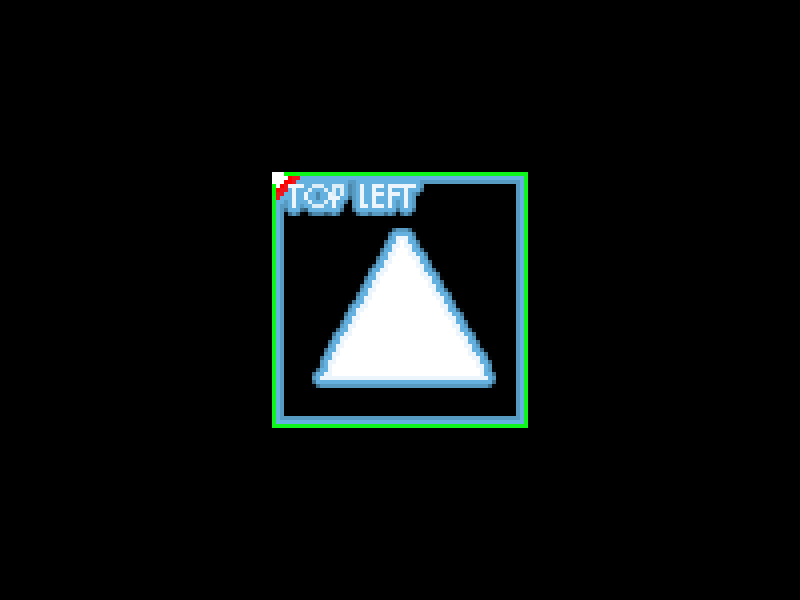
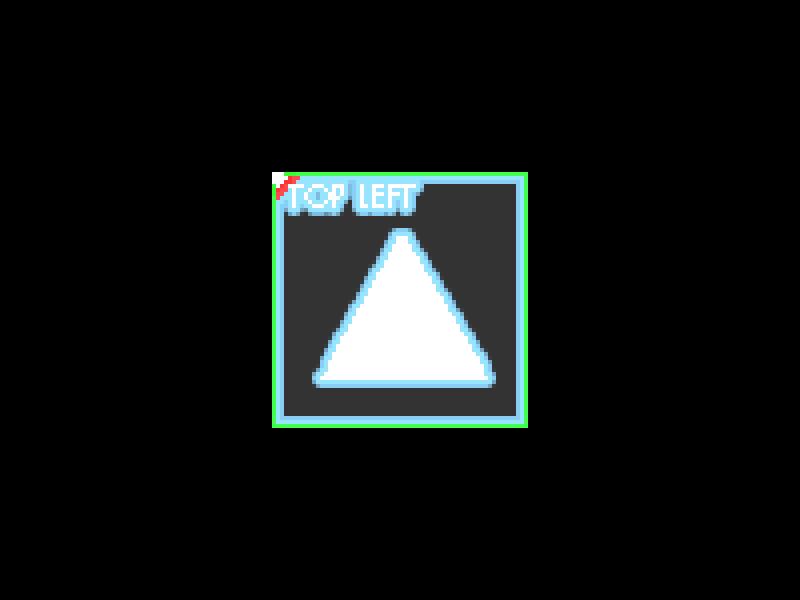
* Differentiate some darkened and lightened tile effect

Changed region(s): [[0.3125, 0.27, 0.6875, 0.72]]

diff --git a/documentation/index.htm b/documentation/index.htm
@@ -238,6 +238,9 @@ table td
   <td class="method">set_light_angle_of_incidence(1)</td>
 </tr>
 <tr>
+  <td class="method">set_light_spread(1)</td>
+</tr>
+<tr>
   <td class="method">set_primary_texture(1)</td>
 </tr>
 <tr>

diff --git a/tests/Tileo/MeshWithNormalsTest.cpp b/tests/Tileo/MeshWithNormalsTest.cpp
@@ -9,6 +9,7 @@
 #include <Tileo/MeshWithNormals.hpp>
 
 #include <AllegroFlare/BitmapBin.hpp>
+#include <AllegroFlare/Random.hpp>
 #include <Tileo/Shaders/AllegroDefault.hpp>
 
 class Tileo_MeshWithNormalsRenderingFixtureTest : public ::testing::Test
@@ -140,18 +141,25 @@ TEST_F(Tileo_MeshWithNormalsRenderingFixtureTest, INTERACTIVE__vertexes_will_ren
    Tileo::Shaders::MeshWithNormals shader;
    shader.initialize();
 
+   std::vector<std::pair<int, int>> tile_and_normal_tile_pairs = { { 2, 2 }, { 18, 3 }, { 19, 0 } };
+
    int num_tiles_in_atlas = atlas.get_tile_index_size();
    int num_tiles_in_normal_atlas = normal_atlas.get_tile_index_size();
+   AllegroFlare::Random random(time(0));
    for (int y=0; y<mesh_with_normals.get_num_rows(); y++)
       for (int x=0; x<mesh_with_normals.get_num_columns(); x++)
       {
-         int tile_num_to_set = (x + y * mesh_with_normals.get_num_columns());
-         tile_num_to_set = tile_num_to_set % num_tiles_in_atlas;
-         mesh_with_normals.set_tile(x, y, tile_num_to_set);
+         //int pair_to_pick = (x + y * mesh_with_normals.get_num_columns()) % tile_and_normal_tile_pairs.size();
+         int pair_to_pick = random.get_random_int(0, (tile_and_normal_tile_pairs.size()-1));
+         //int tile_num_to_set = (x + y * mesh_with_normals.get_num_columns());
+         //tile_num_to_set = tile_num_to_set % num_tiles_in_atlas;
+         int tile_id = tile_and_normal_tile_pairs[pair_to_pick].first;
+         mesh_with_normals.set_tile(x, y, tile_id); //tile_num_to_set);
 
-         int normal_tile_num_to_set = tile_num_to_set % (num_tiles_in_normal_atlas / 3);
+         //int normal_tile_num_to_set = tile_num_to_set % (num_tiles_in_normal_atlas / 3);
          //normal_tile_num_to_set = (-tile_num_to_set + 256*256) % num_tiles_in_atlas;
-         mesh_with_normals.set_normal_tile(x, y, normal_tile_num_to_set);
+         int normal_tile_id = tile_and_normal_tile_pairs[pair_to_pick].second;
+         mesh_with_normals.set_normal_tile(x, y, normal_tile_id); //normal_tile_num_to_set);
       }
 
    std::vector<TILEO_TILE_VERTEX> &vertexes = mesh_with_normals.get_vertexes_ref();
@@ -159,7 +167,7 @@ TEST_F(Tileo_MeshWithNormalsRenderingFixtureTest, INTERACTIVE__vertexes_will_ren
    ALLEGRO_BITMAP* texture = atlas.get_bitmap();
    //ALLEGRO_BITMAP* texture = nullptr;
 
-   int passes = 60*2;
+   int passes = 60*15;
    for (int i=0; i<passes; i++)
    {
       al_clear_to_color(ALLEGRO_COLOR{0, 0, 0, 0});
@@ -169,6 +177,7 @@ TEST_F(Tileo_MeshWithNormalsRenderingFixtureTest, INTERACTIVE__vertexes_will_ren
       shader.set_primary_texture(atlas.get_bitmap());
       shader.set_normal_texture(normal_atlas.get_bitmap());
       shader.set_light_angle_of_incidence((float)(i)/passes);
+      shader.set_light_spread(1);
 
       al_draw_prim(&vertexes[0], vertex_declaration, irrelevant_texture, 0, vertexes.size(), ALLEGRO_PRIM_TRIANGLE_LIST);
 

diff --git a/src/Tileo/Shaders/MeshWithNormals.cpp b/src/Tileo/Shaders/MeshWithNormals.cpp
@@ -53,6 +53,12 @@ void MeshWithNormals::set_light_angle_of_incidence(float light_angle_of_incidenc
    return;
 }
 
+void MeshWithNormals::set_light_spread(int light_spread)
+{
+   Shader::set_int("light_spread", light_spread);
+   return;
+}
+
 void MeshWithNormals::set_primary_texture(ALLEGRO_BITMAP* primary_texture_bitmap)
 {
    Shader::set_sampler("primary_texture", primary_texture_bitmap, 1);
@@ -121,6 +127,7 @@ std::string MeshWithNormals::obtain_fragment_source()
 
      // lights logic:
      uniform float light_angle_of_incidence;
+     uniform int light_spread;
 
      // normals logic:
      uniform sampler2D primary_texture; // analagous to al_tex
@@ -182,11 +189,15 @@ std::string MeshWithNormals::obtain_fragment_source()
 
      void alter_by_normal_texture_color(inout vec4 color, in vec4 normal_color)
      {
+        //int spread = 1;
         int light_direction_y = int(floor(light_angle_of_incidence * 8.0 + 0.5));
         int angle_to_light_y = int(floor(normal_color.g * 8.0 + 0.5));
-        bool light_modified = (light_direction_y == angle_to_light_y);
+        bool in_shadow =
+          (abs(float(light_direction_y) - float(angle_to_light_y)) > float(4));
+        bool in_light =
+          (abs(float(light_direction_y) - float(angle_to_light_y)) < max(1.0, float(light_spread * 2)));
 
-        if (!light_modified)
+        if (in_shadow)
         {
            // darken
            color.r = color.r *= 0.8; //normal_color.r; //inverse_tint_intensity + tint.r * tint_intensity) * color.a;
@@ -194,15 +205,16 @@ std::string MeshWithNormals::obtain_fragment_source()
            color.b = color.b *= 0.8; //normal_color.b; //inverse_tint_intensity + tint.b * tint_intensity) * color.a;
            color.a = color.a *= 0.8;
         }
-        else
+
+        if (in_light)
         {
-           return;
+           //return;
 
            // brighten
-           color.r = color.r += 0.5; //normal_color.r; //inverse_tint_intensity + tint.r * tint_intensity) * color.a;
-           color.g = color.g += 0.5; //normal_color.g; //inverse_tint_intensity + tint.g * tint_intensity) * color.a;
-           color.b = color.b += 0.5; //normal_color.b; //inverse_tint_intensity + tint.b * tint_intensity) * color.a;
-           color.a = color.a += 0.5;
+           color.r = color.r += 0.2; //normal_color.r; //inverse_tint_intensity + tint.r * tint_intensity) * color.a;
+           color.g = color.g += 0.2; //normal_color.g; //inverse_tint_intensity + tint.g * tint_intensity) * color.a;
+           color.b = color.b += 0.2; //normal_color.b; //inverse_tint_intensity + tint.b * tint_intensity) * color.a;
+           color.a = color.a += 0.2;
         }
      }
 

diff --git a/include/Tileo/Shaders/MeshWithNormals.hpp b/include/Tileo/Shaders/MeshWithNormals.hpp
@@ -23,6 +23,7 @@ namespace Tileo
          void activate();
          void set_flat_color(ALLEGRO_COLOR flat_color={}, float intensity=1.0f);
          void set_light_angle_of_incidence(float light_angle_of_incidence=0.0f);
+         void set_light_spread(int light_spread=0);
          void set_primary_texture(ALLEGRO_BITMAP* primary_texture_bitmap=nullptr);
          void set_normal_texture(ALLEGRO_BITMAP* normal_texture_bitmap=nullptr);
          static std::string obtain_vertex_source();
